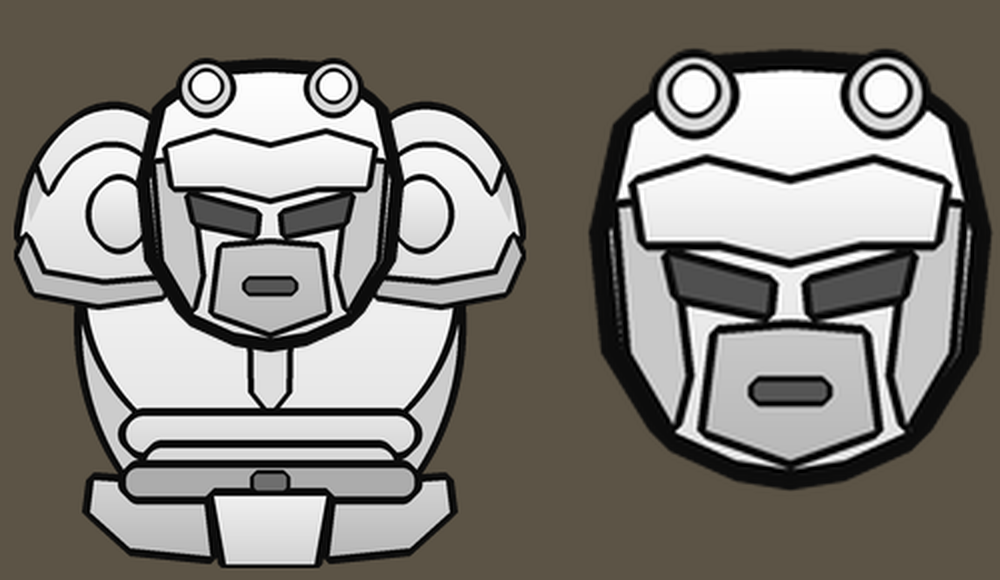
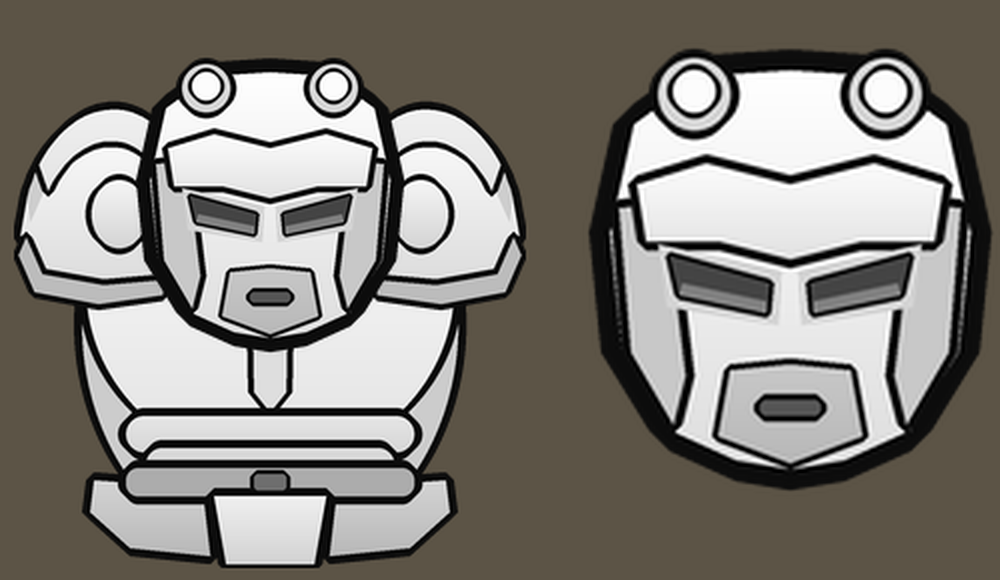
Bulwark v2 helmet: recessed eyes (thin line, lit inner wall, bevel rim), chin clear of the eyes; style rule
Claude-Session: https://claude.ai/code/session_01GM4XsNt8FF8EEgy8oUJDKj

Changed region(s): [[0.651, 0.4034, 0.93, 0.8069], [0.186, 0.3103, 0.372, 0.5897]]

diff --git a/Source/Art/v2/bulwark.py b/Source/Art/v2/bulwark.py
@@ -41,10 +41,12 @@ S.plate(S.ell(46,84,82,118),246,212,stroke=3,mirror=True)                       
 H=Layer()
 H.plate(H.poly(sym([(128,66),(98,68),(76,84),(68,120),(72,160),(88,186),(110,196),(128,199)])),255,222,stroke=7)  # shell
 H.plate(H.poly([(71,112),(86,110),(93,168),(89,184),(75,160)]),200,stroke=3,mirror=True)                   # cheek planes
-H.plate(H.poly(sym([(128,152),(104,154),(100,186),(128,196)])),200,184,stroke=3)                            # simple chin plate
-H.mark(H.rrect(116,170,140,176,2))                                                                         # one slot
+H.plate(H.poly(sym([(128,164),(108,166),(104,188),(128,197)])),200,184,stroke=2)                            # simple chin plate, clear of the eyes
+H.mark(H.rrect(118,176,138,181,2))                                                                         # one slot
 H.plate(H.poly(sym([(128,104),(100,97),(77,104),(80,123),(104,123),(128,129)])),252,226,stroke=3)         # heavy brow
-H.plate(H.poly([(88,128),(121,137),(120,147),(91,141)]),80,stroke=3,mirror=True)                           # slanted eye slits
+H.plate(H.poly([(84,124),(125,133),(124,151),(87,145)]),212,stroke=0,mirror=True)                          # bevel rim around the socket
+H.plate(H.poly([(88,128),(121,137),(120,147),(91,141)]),68,stroke=1.5,mirror=True)                         # eye recess (thin line)
+H.plate(H.poly([(92,137),(120,143),(120,147),(91,141)]),128,stroke=0,mirror=True)                          # lit inner bottom wall = depth
 H.plate(H.ell(84,62,108,86),214,stroke=3,mirror=True)                                                      # crown lamp housings, on the shell
 H.plate(H.ell(89,66,103,80),252,stroke=2,mirror=True)                                                      # lamp lenses
 body,sh,hm=B.image(),S.image(),H.image()

diff --git a/docs/STYLE_GUIDE.md b/docs/STYLE_GUIDE.md
@@ -68,7 +68,11 @@ soft airbrushed shading, rim lights, highlights or cast shadows.
 
 - Large shapes only. Per layer, at most a handful of small marks: a pair of vent slots, a round
   socket, one seam. No rivets, bolts, grilles, texture, scratches, text or decals.
-- The visor/eyes are dark-grey shapes (70 - 100) with a black outline, not glowing colour.
+- The visor/eyes are dark-grey shapes (70 - 100), not glowing colour, drawn as recesses: a thin line
+  (1.5 - 2 px, not the 4 px plate outline), a lighter strip (~130) along the inside bottom edge where the far
+  wall catches light, and a soft bevel rim (~210) around the opening. That is what gives them depth.
+- Keep features apart: leave clear plate between eyes, mouth and other openings so their lines never run
+  into each other.
 
 ## Originality
 
